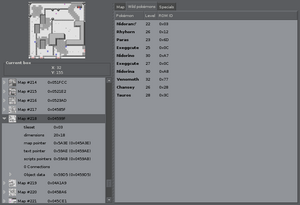
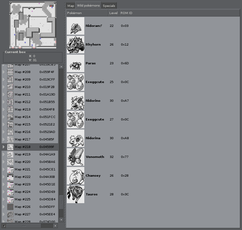
Prepare web release

diff --git a/www/index.html b/www/index.html
@@ -25,15 +25,15 @@
 			Also, you won't find any ROM here.
 		</p>
 		<ul>
-			<li><a href="releases/pokanalysis-0.1.0.tar.gz">Get Pokanalysis 0.1.0</a> (4 Jul 2010)</li>
+			<li><a href="releases/pokanalysis-0.2.0.tar.gz">Get Pokanalysis 0.2.0</a> (18 Jul 2010)</li>
 			<li><a href="Changelog">View Changelog</a></li>
 		</ul>
 
 		<h2>Screenshots</h2>
 		<p style="text-align: center;">
 			<a href="shots/cerulean_city.png"><img src="shots/mini_cerulean_city.png" alt="Cerulean City" /></a>
-			<a href="shots/viridian_city.png"><img src="shots/mini_viridian_city.png" alt="Viridian city" /></a>
 			<a href="shots/safari_wild_pkmn.png"><img src="shots/mini_safari_wild_pkmn.png" alt="Safari Wild Pokémons" /></a>
+			<a href="shots/viridian_city.png"><img src="shots/mini_viridian_city.png" alt="Viridian city" /></a>
 		</p>
 
 		<h2>Current features</h2>
@@ -41,7 +41,7 @@
 			<li>Main game area (Kanto) with merged or split maps</li>
 			<li>Houses, cave, etc. maps</li>
 			<li>Entering maps by clicking on warps/doors</li>
-			<li>Wild pokémons with their names</li>
+			<li>Wild pokémons with their names and sprites</li>
 			<li>Text of most of the signs</li>
 			<li>Special items (hidden objects for example)</li>
 			<li>Entities (people, trainers, items) and their default orientation</li>
@@ -90,7 +90,6 @@
 			<li>Map names</li>
 			<li>Special items text and type</li>
 			<li>Support more text (entities, special signs, …)</li>
-			<li>Sprite extraction</li>
 			<li>Trainers pokemons</li>
 			<li>Pokémons information (stats, evolutions, …)</li>
 			<li>More ROMS support (better addresses support)</li>
